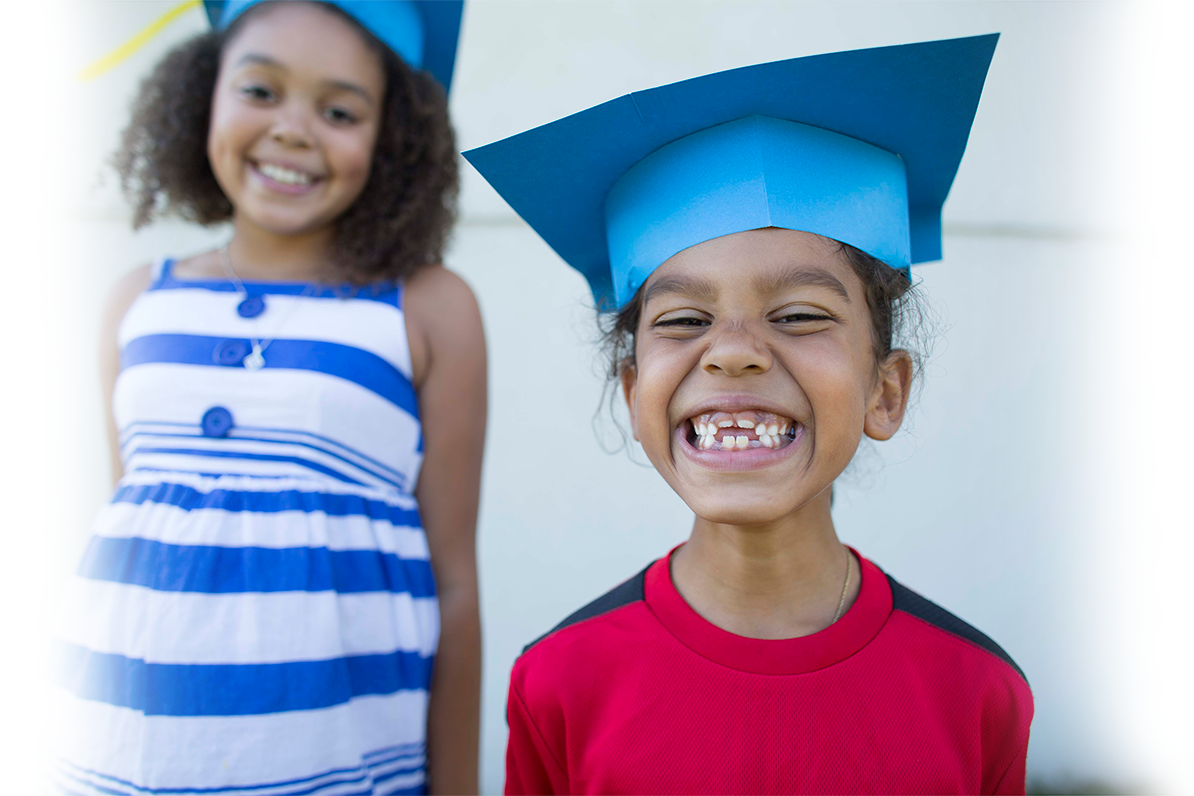
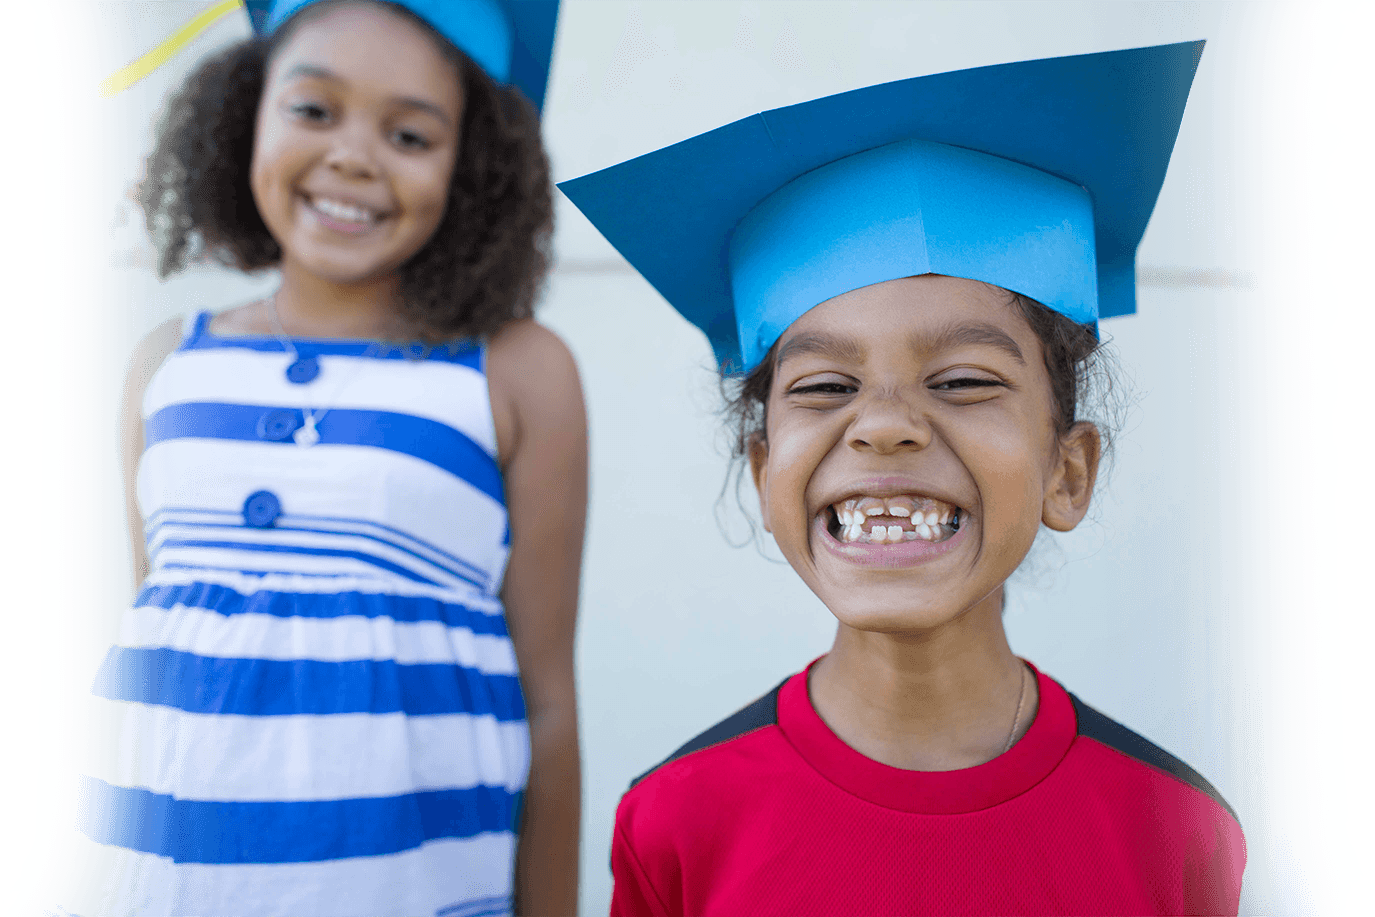
Add Mobile breakpoints for background image

diff --git a/src/static/index/style.css b/src/static/index/style.css
@@ -42,10 +42,39 @@ a {
   color: rgba(255, 255, 255, 0.8);
 }
 
+/* Header details  */
+
 .header {
   background-color: #efefef;
 }
 
-.header__container .row {
+@media (max-width: 767px) {
+  .header {
+    background-image: url('/static/images/header-image-no-fade.jpg');
+    background-size: cover;
+    background-position: top;
+    background-repeat: no-repeat;
+  }
+}
+
+.header__content {
+  max-width: 80rem;
+}
+
+@media (max-width: 767px) {
+  .header__content {
+    z-index: 1;
+  }
+}
+
+.header__content .row {
   width: 100%;
+  margin: 0 auto;
+}
+
+.header-overlay.position-absolute {
+  width: 100%;
+  height: 100%;
+  z-index: 0;
+  background-color: #ffffff82;
 }

diff --git a/src/routes/indexRouter.js b/src/routes/indexRouter.js
@@ -6,7 +6,8 @@ router.get('/', (_, res) => {
   const { staticUrl } = expressConfig;
   res.render('index/index', {
     logo: `${staticUrl}/images/logo-small.png`,
-    headerImage: `${staticUrl}/images/header-image-fade-sides.png`,
+    headerImageDesktop: `${staticUrl}/images/header-image-fade-sides.png`,
+    headerImageMobile: `${staticUrl}/images/header-image-wide.jpg`,
     script: `${staticUrl}/index/script.js`,
     style: `${staticUrl}/index/style.css`
   })
